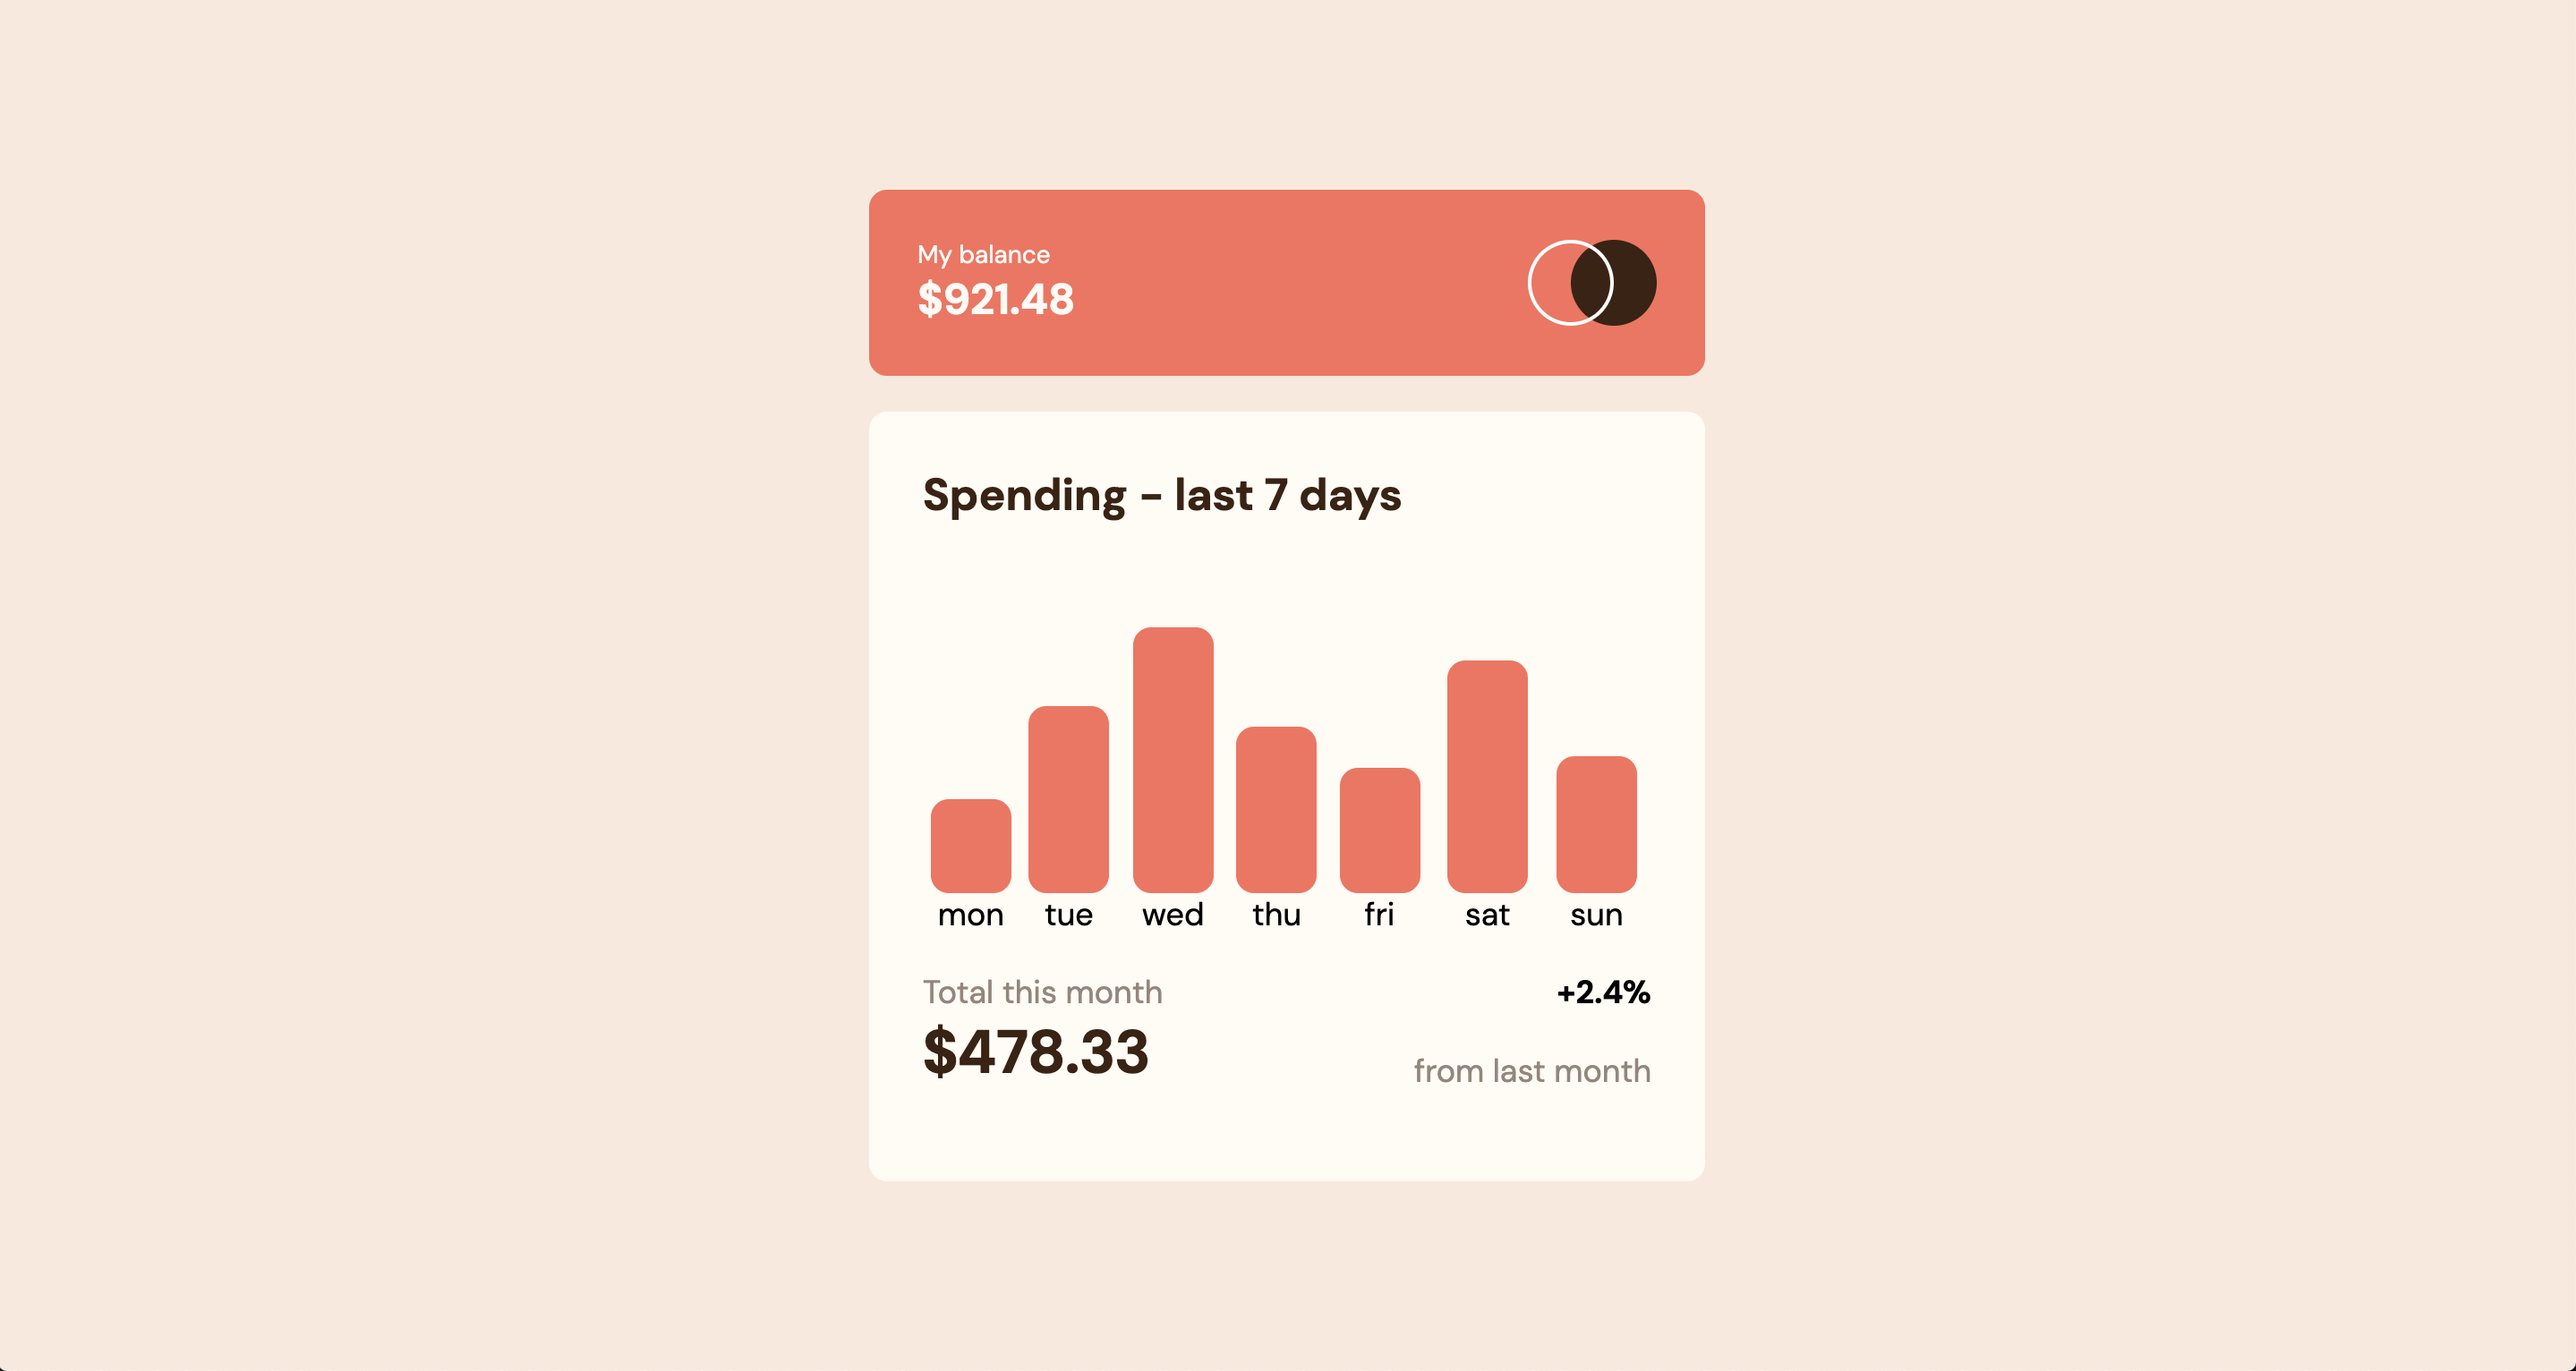
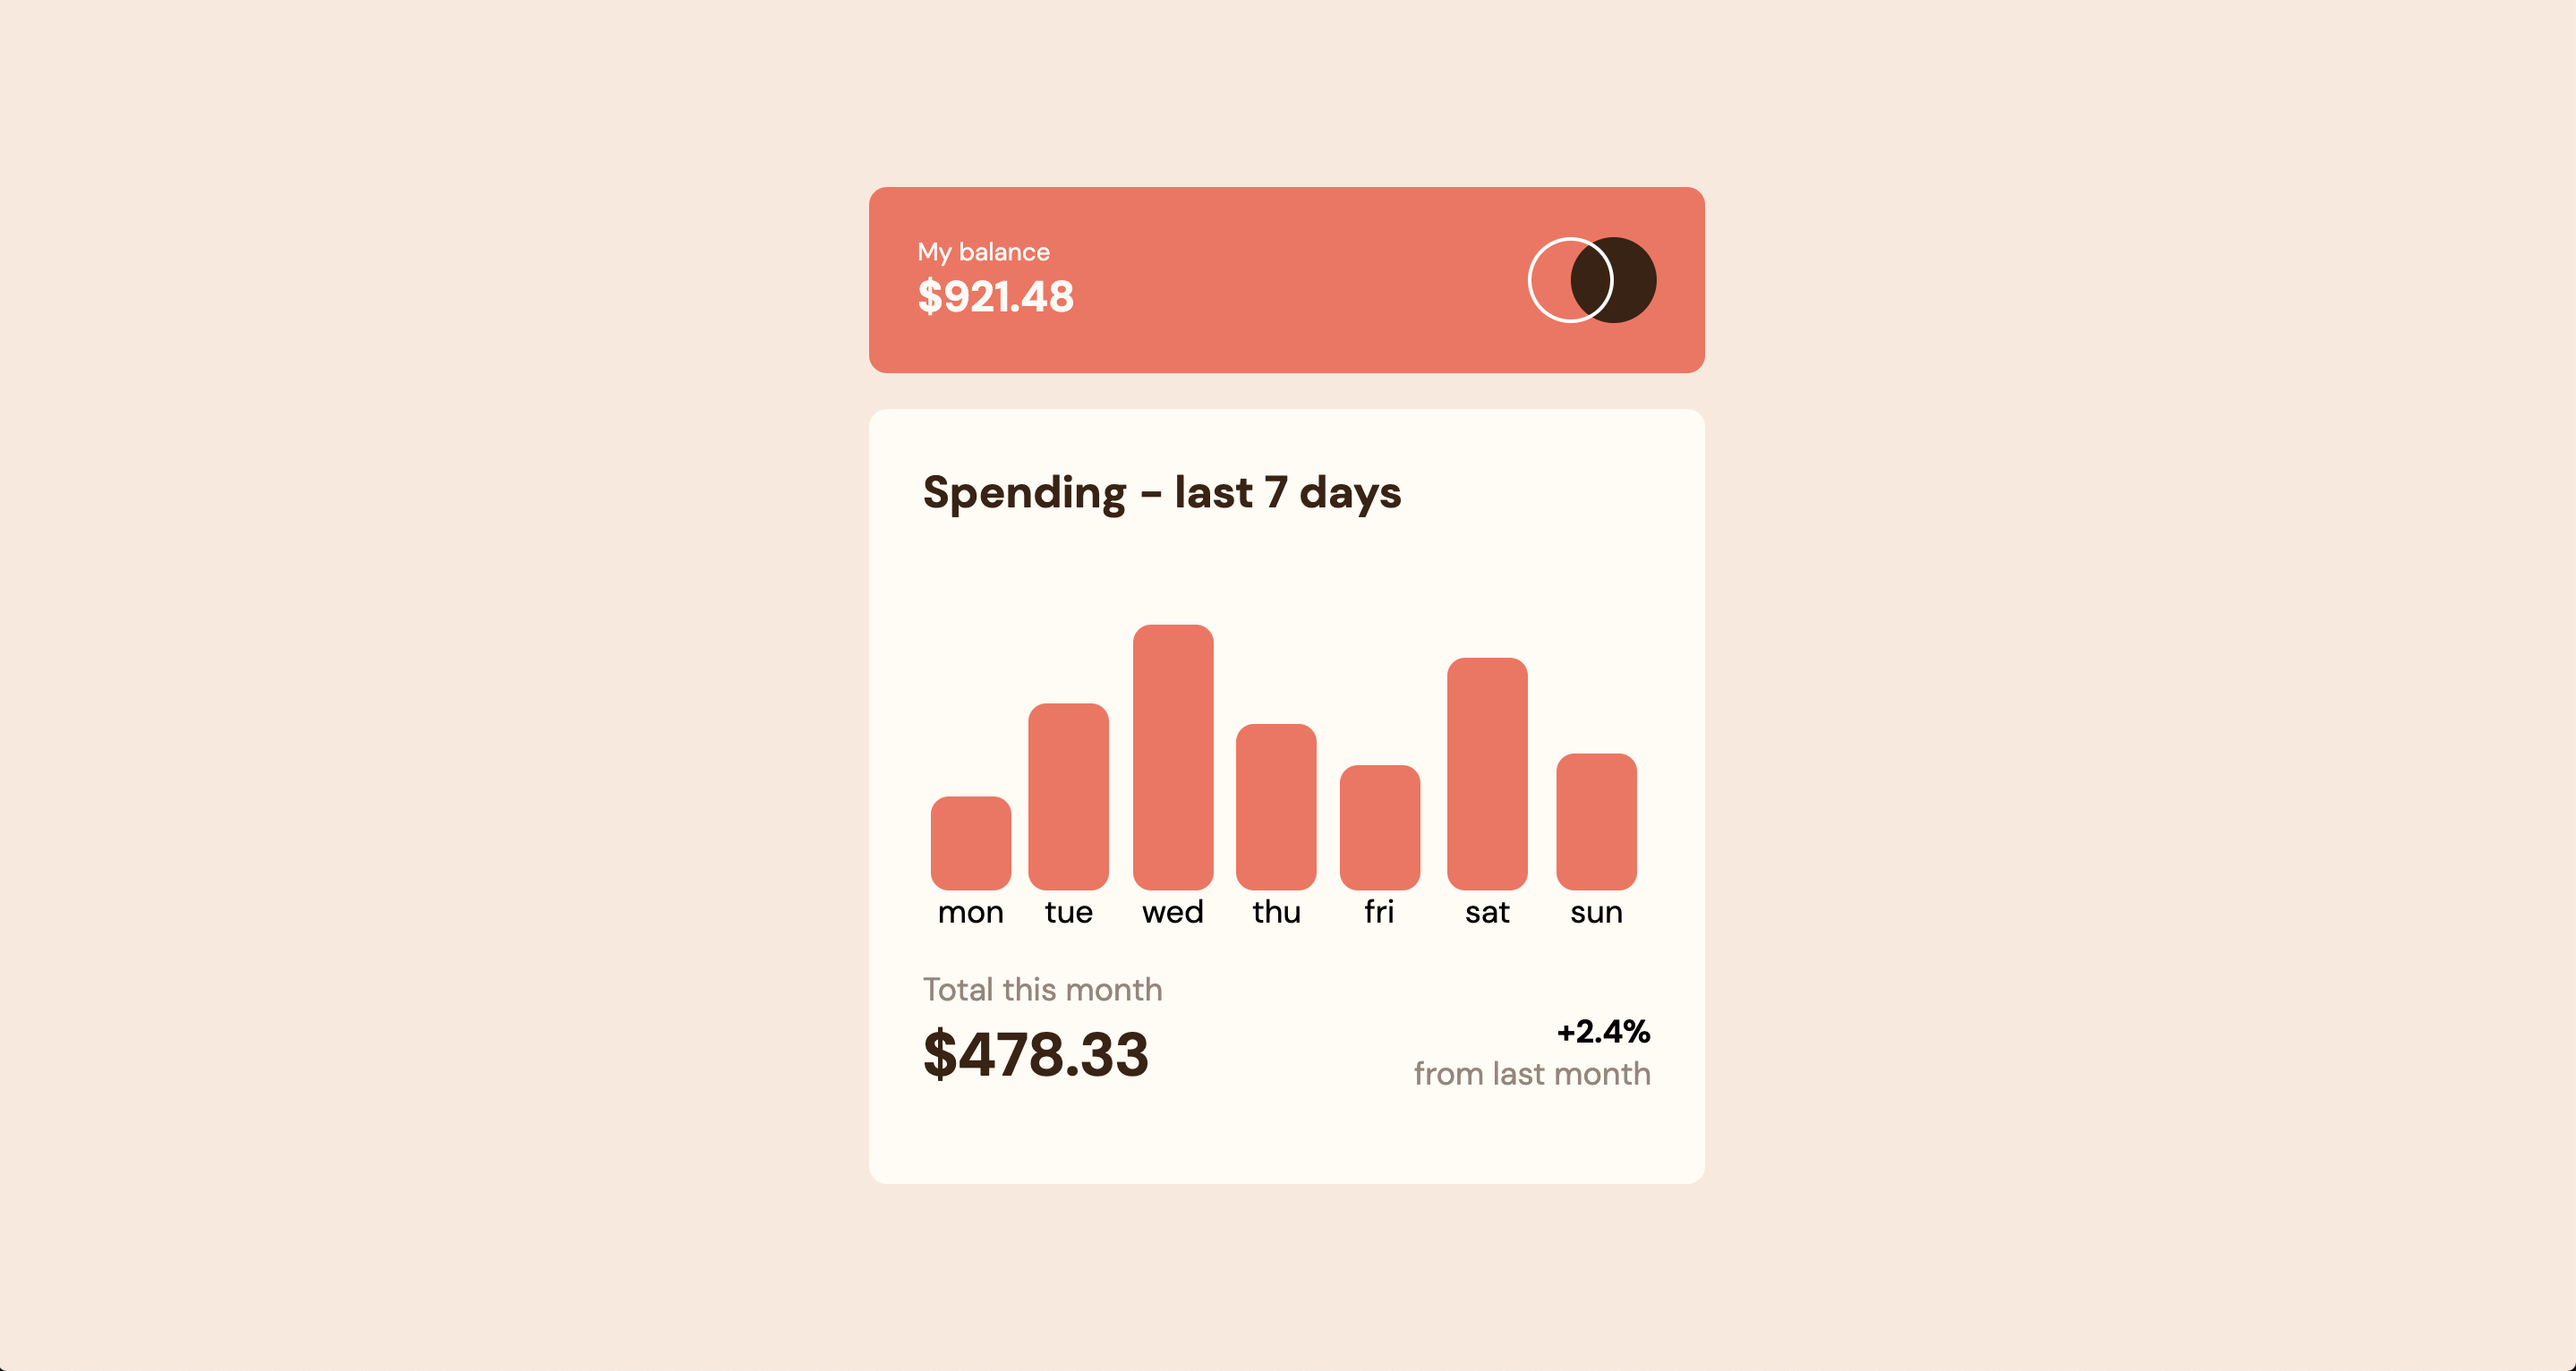
fixed some css

diff --git a/index.html b/index.html
@@ -37,8 +37,10 @@
         <div class="total">
           <span id="total-month">Total this month</span>
           <p id="total-for-month">$478.33</p>
-          <span id="percentage"><b>+2.4%</b></span>
-          <span id="last-month">from last month</span>
+          <div class="percentage-container">
+            <span id="percentage"><b>+2.4%</b></span><br>
+            <span id="last-month">from last month</span>
+          </div>
         </div>
 
       </div>

diff --git a/styles/output.css b/styles/output.css
@@ -96,6 +96,11 @@ main {
   color: hsl(25, 47%, 15%);
   font-size: 34px;
 }
+.white-container .total .percentage-container {
+  grid-row: 2;
+  grid-column: 2;
+  text-align: right;
+}
 .white-container .total #last-month,
 .white-container .total #percentage {
   text-align: right;

diff --git a/styles/input.scss b/styles/input.scss
@@ -122,6 +122,12 @@ main {
             font-size: 34px;
         }
 
+        .percentage-container {
+            grid-row: 2;
+            grid-column: 2;
+            text-align: right;
+        }
+
         #last-month,
         #percentage {
             text-align: right;
